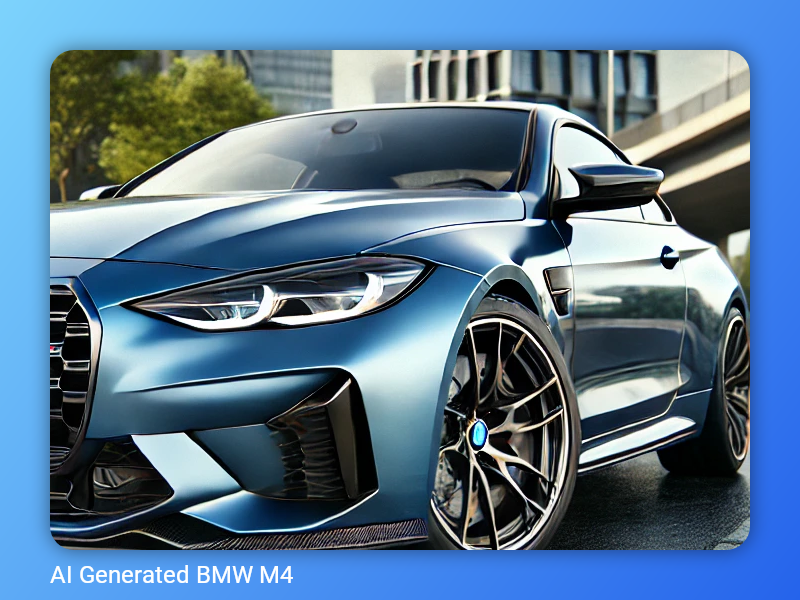
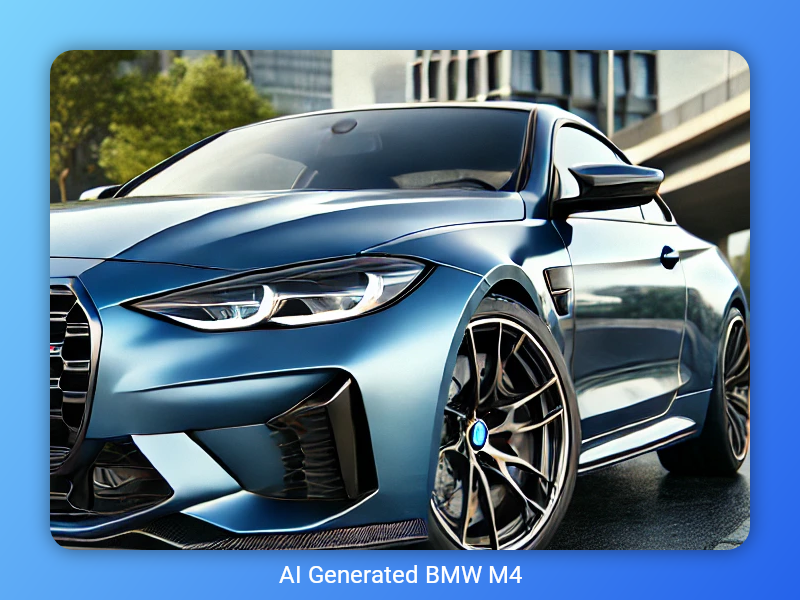
feat: Add image format support and update example usages

Changed region(s): [[0.0625, 0.93, 0.6562, 0.99]]

diff --git a/mod.ts b/mod.ts
@@ -3,7 +3,9 @@ import { type ComponentType, createContext, h, render } from 'preact';
 import { useContext } from 'preact/hooks';
 import { WaitGroup } from './utils/wait_group.ts';
 import { writeFile } from 'node:fs/promises';
-export { Renderer } from './Renderer.tsx';
+import { ImageFormat, Renderer } from './Renderer.tsx';
+
+export { ImageFormat, Renderer };
 
 export {
   ClipRect,
@@ -18,8 +20,15 @@ export {
   type TextProps,
 } from './components/index.tsx';
 
+type MainContextProps = {
+  wg: WaitGroup;
+  onDone: (bytes: Uint8Array) => void;
+  format: ImageFormat;
+  quality: number;
+};
+
 export const MainContext = createContext<
-  { wg: WaitGroup; onDone: (bytes: Uint8Array) => void } | null
+  MainContextProps | null
 >(null);
 
 export const useMainContext = () => {
@@ -34,7 +43,15 @@ export const useMainContext = () => {
 
 export async function generate(
   Component: ComponentType,
-  fileName = 'output.png',
+  {
+    fileName,
+    format = ImageFormat.PNG,
+    quality = 100,
+  }: {
+    fileName: string;
+    format?: ImageFormat;
+    quality?: number;
+  },
 ): Promise<void> {
   const browser = new Browser();
   const page = browser.newPage();
@@ -48,6 +65,8 @@ export async function generate(
       value: {
         wg,
         onDone: signal.resolve,
+        format,
+        quality,
       },
     }, [h(Component, null)]),
     page.mainFrame.document.body,

diff --git a/Renderer.tsx b/Renderer.tsx
@@ -172,6 +172,18 @@ const CanvasKit = await CanvasKitInit({
     resolve(__dirname, 'node_modules', 'canvaskit-wasm', 'bin', 'full', file),
 });
 
+export enum ImageFormat {
+  PNG = 'png',
+  JPEG = 'jpeg',
+  WEBP = 'webp',
+}
+
+const ImageFormatMap = {
+  [ImageFormat.JPEG]: CanvasKit.ImageFormat.JPEG,
+  [ImageFormat.PNG]: CanvasKit.ImageFormat.PNG,
+  [ImageFormat.WEBP]: CanvasKit.ImageFormat.WEBP,
+};
+
 export type RendererProps = {
   width: number;
   height: number;
@@ -219,7 +231,7 @@ export const RenderAck: FunctionComponent<{ id: string; ack: () => void }> = (
 export const Renderer: FunctionComponent<RendererProps> = (
   { width, height, children },
 ) => {
-  const { wg, onDone } = useMainContext();
+  const { wg, onDone, format, quality } = useMainContext();
 
   const id = useId();
 
@@ -242,7 +254,10 @@ export const Renderer: FunctionComponent<RendererProps> = (
         log('Running %s -> %s', id, name);
         await Promise.resolve().then(fn);
       }
-      const bytes = surface.makeImageSnapshot().encodeToBytes();
+      const bytes = surface.makeImageSnapshot().encodeToBytes(
+        ImageFormatMap[format],
+        quality,
+      );
       if (!bytes) {
         throw Error('Failed to encode image');
       }

diff --git a/examples/instagram-stories-question-card.tsx b/examples/instagram-stories-question-card.tsx
@@ -1,6 +1,13 @@
 #!/usr/bin/env -S deno run -A
 import { FontStyle, LoadFont } from '../components/LoadFont.tsx';
-import { Container, generate, LinearGradient, Renderer, Text } from '../mod.ts';
+import {
+  Container,
+  generate,
+  ImageFormat,
+  LinearGradient,
+  Renderer,
+  Text,
+} from '../mod.ts';
 import { basename, extname } from 'node:path';
 
 function Image() {
@@ -75,8 +82,9 @@ function Image() {
 }
 
 const outFile =
-  basename(import.meta.url).slice(0, -extname(import.meta.url).length) + '.png';
+  basename(import.meta.url).slice(0, -extname(import.meta.url).length) +
+  '.webp';
 
-generate(Image, outFile).catch((e) => {
+generate(Image, { fileName: outFile, format: ImageFormat.WEBP }).catch((e) => {
   console.error(e);
 });

diff --git a/examples/simple-linear-gradient-with-text.tsx b/examples/simple-linear-gradient-with-text.tsx
@@ -1,5 +1,11 @@
 #!/usr/bin/env -S deno run -A
-import { generate, LinearGradient, Renderer, Text } from '../mod.ts';
+import {
+  generate,
+  ImageFormat,
+  LinearGradient,
+  Renderer,
+  Text,
+} from '../mod.ts';
 import { basename, extname } from 'node:path';
 
 function Image() {
@@ -26,8 +32,9 @@ function Image() {
 }
 
 const outFile =
-  basename(import.meta.url).slice(0, -extname(import.meta.url).length) + '.png';
+  basename(import.meta.url).slice(0, -extname(import.meta.url).length) +
+  '.jpeg';
 
-generate(Image, outFile).catch((e) => {
+generate(Image, { fileName: outFile, format: ImageFormat.JPEG }).catch((e) => {
   console.error(e);
 });

diff --git a/examples/simple-image-with-caption.tsx b/examples/simple-image-with-caption.tsx
@@ -3,6 +3,7 @@ import { LoadFont } from '../components/LoadFont.tsx';
 import {
   Container,
   generate,
+  ImageFormat,
   LinearGradient,
   Picture,
   Renderer,
@@ -40,7 +41,7 @@ function Image() {
         <Text
           fontSize={24}
           y={565}
-          x={50}
+          align='center'
           color='#fff'
           content='AI Generated BMW M4'
         />
@@ -52,6 +53,6 @@ function Image() {
 const outFile =
   basename(import.meta.url).slice(0, -extname(import.meta.url).length) + '.png';
 
-generate(Image, outFile).catch((e) => {
+generate(Image, { fileName: outFile }).catch((e) => {
   console.error(e);
 });
